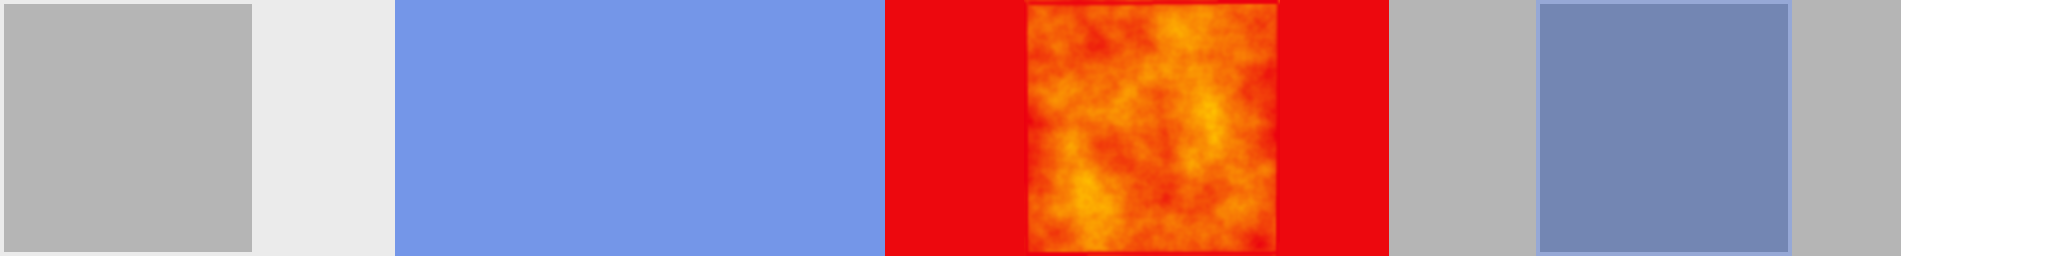
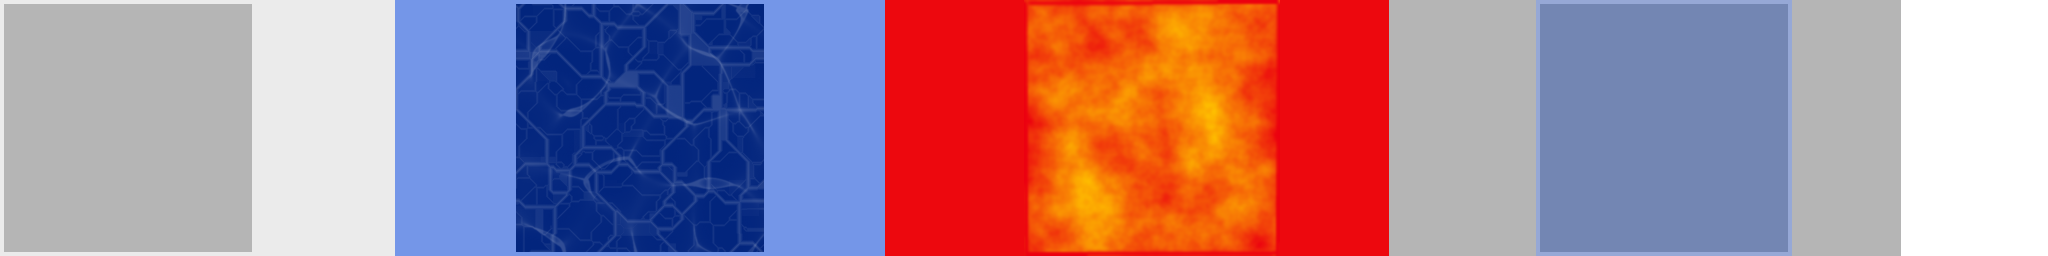
fix the water rendering.

Changed region(s): [[0.25, 0.0, 0.375, 1.0]]

diff --git a/game/worldmap.h b/game/worldmap.h
@@ -190,10 +190,14 @@ public:
 		MAGMA,
 		ICE
 	};
+	// 2D voxels
 	virtual void Submit( GPUState* shader, bool emissiveOnly );
+	virtual void PrepGrid( const SpaceTree* spaceTree );
+
+	// 3D voxels
 	virtual void PrepVoxels(const SpaceTree*, Model** root, const grinliz::Plane* planes6);
 	virtual void DrawVoxels( GPUState* shader, const grinliz::Matrix4* xform );
-	virtual void PrepGrid( const SpaceTree* spaceTree );
+
 	virtual void Draw3D(  const grinliz::Color3F& colorMult, StencilMode, bool useSaturation );
 	virtual grinliz::Vector3I IntersectVoxel(	const grinliz::Vector3F& origin,
 												const grinliz::Vector3F& dir,
